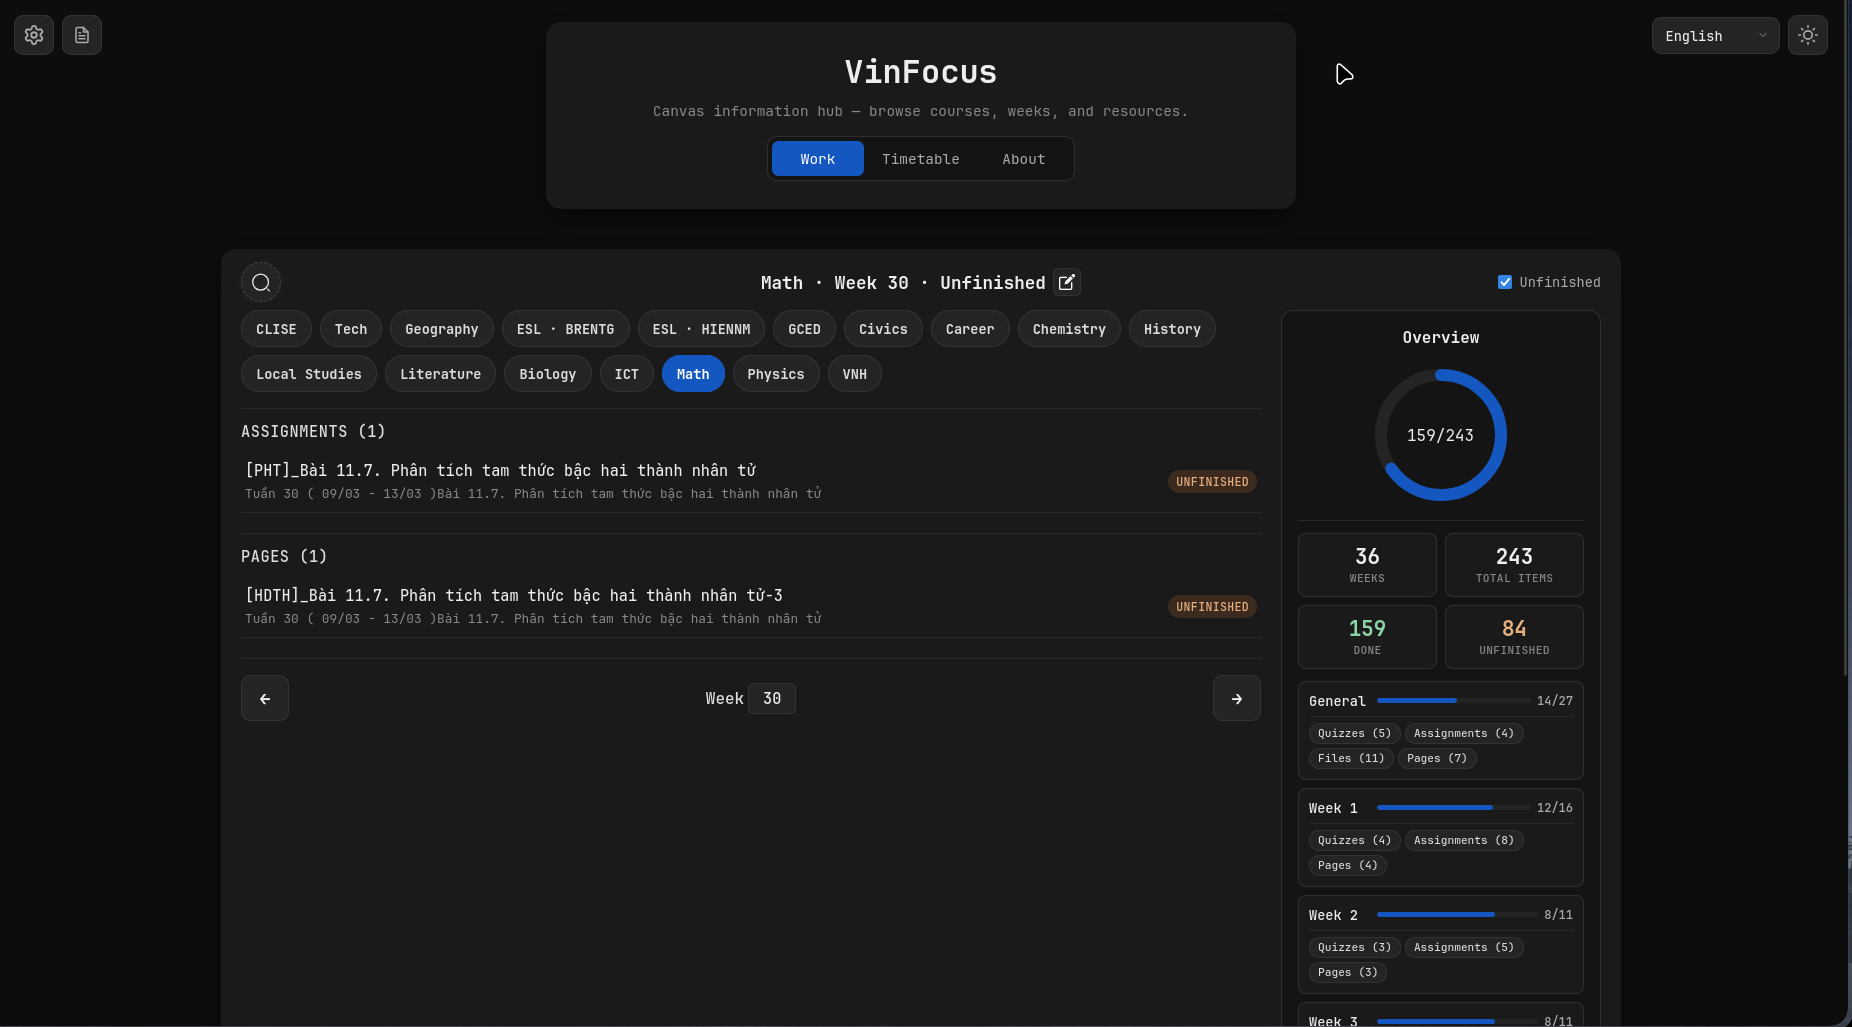
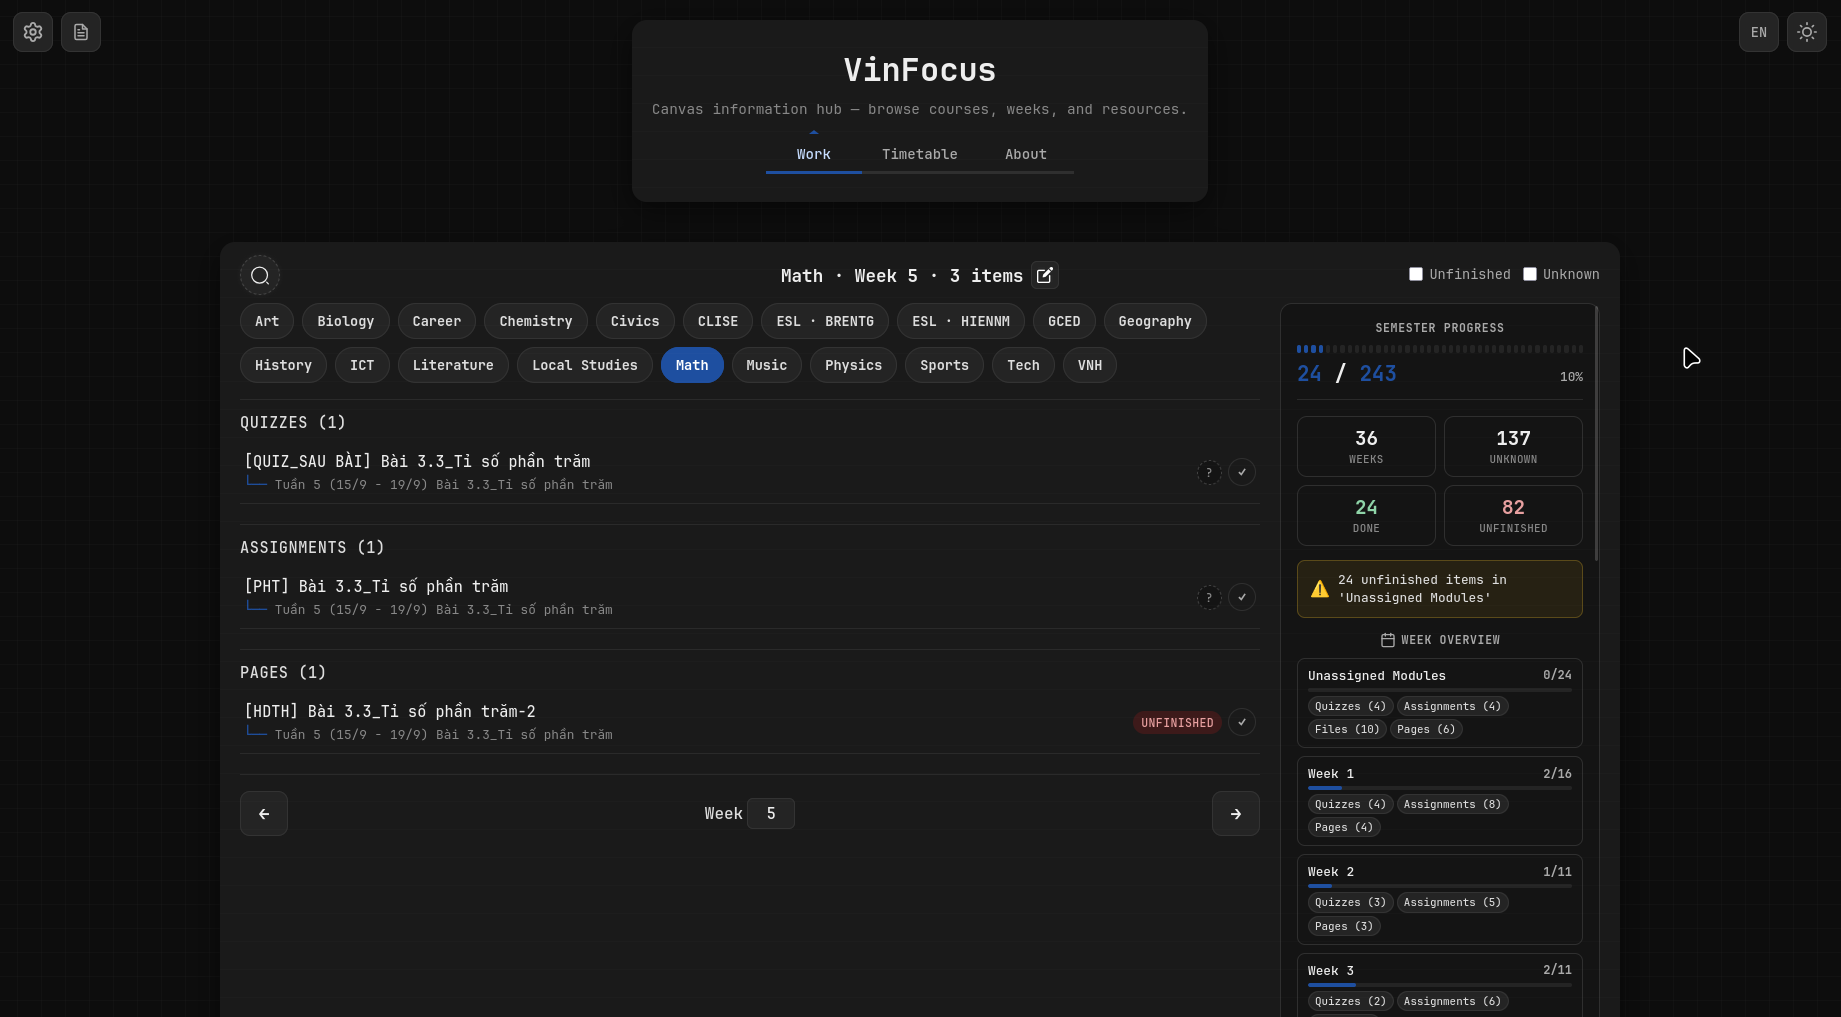
v1.5.0 - Dashboard Refresh

diff --git a/test_fixes.py b/test_fixes.py
@@ -1,0 +1,131 @@
+#!/usr/bin/env python3
+"""Quick test to verify the bug fixes work correctly."""
+
+import sys
+import os
+
+# Add current directory to path
+sys.path.insert(0, os.path.dirname(os.path.abspath(__file__)))
+
+def test_imports():
+    """Test that all imports work."""
+    print("Testing imports...")
+    try:
+        import main
+        print("✓ main.py imports successfully")
+        return True
+    except Exception as e:
+        print(f"✗ Import failed: {e}")
+        return False
+
+def test_cache_bug_fixed():
+    """Test that courses are not cached globally."""
+    print("\nTesting cache bug fix...")
+    import main
+    
+    # Check that get_courses doesn't use cache
+    import inspect
+    source = inspect.getsource(main.get_courses)
+    
+    if 'cache_get("courses")' in source:
+        print("✗ FAIL: get_courses still uses global cache")
+        return False
+    
+    if 'not cached - user-specific' in source:
+        print("✓ PASS: get_courses correctly avoids global cache")
+        return True
+    
+    print("✗ FAIL: Could not verify cache fix")
+    return False
+
+def test_cors_configured():
+    """Test that CORS is configured."""
+    print("\nTesting CORS configuration...")
+    import main
+    
+    # Check that CORS is imported and used
+    if hasattr(main, 'CORS'):
+        print("✓ PASS: CORS is configured")
+        return True
+    
+    print("✗ FAIL: CORS not configured")
+    return False
+
+def test_health_endpoint():
+    """Test that health endpoint exists."""
+    print("\nTesting health endpoint...")
+    import main
+    
+    rules = [rule for rule in main.app.url_map.iter_rules()]
+    health_rules = [r for r in rules if '/health' in str(r)]
+    
+    if health_rules:
+        print(f"✓ PASS: Health endpoint exists: {health_rules[0]}")
+        return True
+    
+    print("✗ FAIL: Health endpoint not found")
+    return False
+
+def test_db_pooling():
+    """Test that database pooling is configured."""
+    print("\nTesting database pooling...")
+    import main
+    
+    if hasattr(main, '_db_pool'):
+        print("✓ PASS: Database pool variable exists")
+        return True
+    
+    print("✗ FAIL: Database pool not configured")
+    return False
+
+def test_no_crash_without_db():
+    """Test that app doesn't crash if DATABASE_URL is missing."""
+    print("\nTesting graceful DB handling...")
+    import main
+    
+    # The app should have initialized even without DB
+    if hasattr(main, 'app'):
+        print("✓ PASS: App initialized without crashing")
+        return True
+    
+    print("✗ FAIL: App did not initialize")
+    return False
+
+def main_test():
+    """Run all tests."""
+    print("=" * 60)
+    print("VinFocus Bug Fix Verification Tests")
+    print("=" * 60)
+    
+    tests = [
+        test_imports,
+        test_cache_bug_fixed,
+        test_cors_configured,
+        test_health_endpoint,
+        test_db_pooling,
+        test_no_crash_without_db,
+    ]
+    
+    results = []
+    for test in tests:
+        try:
+            results.append(test())
+        except Exception as e:
+            print(f"✗ Test {test.__name__} raised exception: {e}")
+            results.append(False)
+    
+    print("\n" + "=" * 60)
+    passed = sum(results)
+    total = len(results)
+    print(f"Results: {passed}/{total} tests passed")
+    print("=" * 60)
+    
+    if all(results):
+        print("\n✓ All tests passed! The bugs have been fixed.")
+        return 0
+    else:
+        print("\n✗ Some tests failed. Please review the output above.")
+        return 1
+
+if __name__ == "__main__":
+    sys.exit(main_test())

diff --git a/main.py b/main.py
@@ -46,20 +46,20 @@ logger.addFilter(PrivacyFilter())
 
 app = Flask(__name__)
 
-# Compress(app)
+Compress(app)
 
-# csp = {
-#     "default-src": ["'self'"],
-#     "script-src": ["'self'"],
-#     "style-src": ["'self'", "'unsafe-inline'"],
-#     "img-src": ["'self'", "data:"],
-#     "object-src": ["'none'"],
-#     "frame-ancestors": ["'none'"],
-#     "form-action": ["'self'"],
-#     "base-uri": ["'self'"],
-# }
+csp = {
+    "default-src": ["'self'"],
+    "script-src": ["'self'"],
+    "style-src": ["'self'", "'unsafe-inline'"],
+    "img-src": ["'self'", "data:"],
+    "object-src": ["'none'"],
+    "frame-ancestors": ["'none'"],
+    "form-action": ["'self'"],
+    "base-uri": ["'self'"],
+}
 
-# Talisman(app, content_security_policy=csp)
+Talisman(app, content_security_policy=csp)
 
 # Limit request body size to 1MB
 app.config["MAX_CONTENT_LENGTH"] = 1 * 1024 * 1024
@@ -67,7 +67,7 @@ app.config["MAX_CONTENT_LENGTH"] = 1 * 1024 * 1024
 # Configure CORS for frontend access
 CORS(app, resources={
     r"/api/*": {
-        "origins": ["https://vinschool-lms-dashboard.onrender.com", "http://localhost:5000"],
+        "origins": ["https://vinfocus.onrender.com", "http://localhost:5000"],
         "methods": ["GET", "POST", "OPTIONS"],
         "allow_headers": ["Content-Type", "Authorization", "X-CSRF-Token"]
     }

diff --git a/README.md b/README.md
@@ -4,18 +4,18 @@ VinFocus is a personal information hub for Vinschool's Canvas LMS, designed for 
 
 ## Demo
 
-https://github.com/user-attachments/assets/1dbd77f9-af79-47db-9f85-02e0fa4c710c
+https://github.com/user-attachments/assets/c0bf2085-5e51-4b41-b13e-41436c0d9945
 
 ## Screenshot
 
 ### Setup Wizard
 ![alt text](static/image-3.png)
 
-### Work view
+### Work View
 ![alt text](static/image.png)
 
-### Overview Dashboard
-![alt text](static/image-1.png)
+### Semester Progress Dashboard
+![alt text](static/image-4.png)
 
 ### Timetable
 ![alt text](static/image-2.png)
@@ -24,7 +24,7 @@ https://github.com/user-attachments/assets/1dbd77f9-af79-47db-9f85-02e0fa4c710c
 
 The app is hosted and ready to use at:
 
-**https://vinschool-lms-dashboard.onrender.com/**
+**https://vinfocus.onrender.com/**
 
 No installation or setup is required, just open the link, follow the setup wizard to generate and paste your Canvas API token, and start browsing.
 
@@ -54,7 +54,7 @@ Students decide what to work on. VinFocus simply makes the information easier to
 ### Productivity
 - Unfinished filter — filter items to only those explicitly tracked as incomplete by Canvas
 - Unknown filter — filter items that have no completion tracking (Canvas doesn't report completion status)
-- Course overview dashboard — per-week item counts, completion stats, and type breakdowns
+- Semester progress dashboard — per-week item counts, completion stats, and type breakdowns
 - Item importance — items matching keywords like `HKII`, `HS1`, `cuối năm` are visually highlighted as important
 - Manual completion override — mark any item as done even without Canvas tracking; stored in browser localStorage
 
@@ -79,6 +79,7 @@ Students decide what to work on. VinFocus simply makes the information easier to
 - **Flask** — Web framework
 - **Flask-CORS** — Cross-origin resource sharing for frontend access
 - **Flask-Talisman** — Security headers (Content Security Policy)
+- **Flask-Compress** — Response compression
 - **Requests** — HTTP client for Canvas API
 - **psycopg2-binary** — PostgreSQL database driver
 - **python-dotenv** — Environment variable management
@@ -165,7 +166,7 @@ The frontend in `script.js` loads courses, lets you pick a course and week, and 
 - Tokens are never stored on VinFocus servers
 - Tokens are only sent to Canvas-authenticated endpoints
 - Users can revoke tokens at any time from Canvas
-- POST endpoints require CSRF tokens obtained from `GET /api/csrf-token`
+- Feedback submission (`POST /api/feedback`) requires a CSRF token obtained from `GET /api/csrf-token`
 - Feedback admin access requires an `X-Admin-Key` header with constant-time comparison
 
 ### Architecture notes
@@ -189,7 +190,7 @@ If you prefer to run the app on your own machine instead of using the hosted ver
 pip install -r requirements.txt
 ```
 
-This will install all required packages including Flask, Flask-CORS, Flask-Talisman, psycopg2-binary, python-dotenv, gunicorn, and requests.
+This will install all required packages including Flask, Flask-CORS, Flask-Talisman, Flask-Compress, psycopg2-binary, python-dotenv, gunicorn, requests, and pytest.
 
 2. Start the app:
 
@@ -213,6 +214,7 @@ The test suite covers:
 
 - **Unit tests** for the `extract_weeks()` parser (single weeks, ranges, multi-week lists, edge cases, non-week modules).
 - **Integration tests** for all API endpoints (success, missing token, API failure, week 0/general, range expansion, legacy routes, overview endpoint, three-state completion).
+- **System tests** for app startup, configuration, caching, rate limiting, CSRF protection, and database connectivity.
 
 ## Environment Variables
 
@@ -236,7 +238,7 @@ The feedback endpoint is protected and requires an admin API key for security. T
 4. Make a request with the admin key:
 
 ```bash
-curl -H "X-Admin-Key: YOUR_ADMIN_KEY" https://vinschool-lms-dashboard.onrender.com/api/feedback
+curl -H "X-Admin-Key: YOUR_ADMIN_KEY" https://vinfocus.onrender.com/api/feedback
 ```
 
 Or in your browser's developer console:
@@ -275,6 +277,15 @@ curl -H "X-Admin-Key: your-secret-key-here" http://127.0.0.1:5000/api/feedback
 ## Notes
 
 This project needs a valid Canvas API token to load real data. Keep the token private and do not commit it to the repository.
+
+## Version
+
+- Backend API: `2.0`
+- Frontend script: `2.1`
+
+## License
+
+MIT License — see [LICENSE](LICENSE) for details.
 
 ## Author
 
